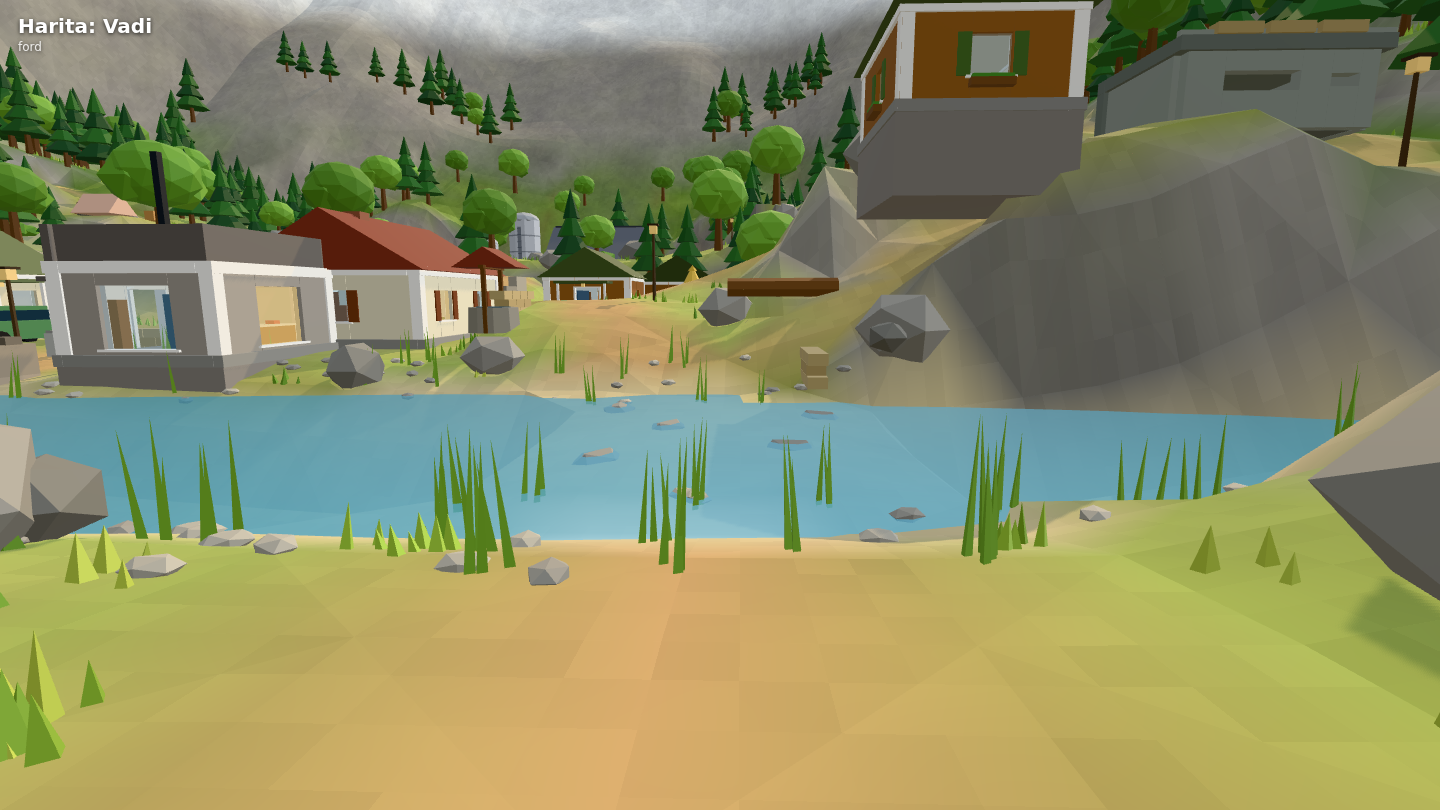
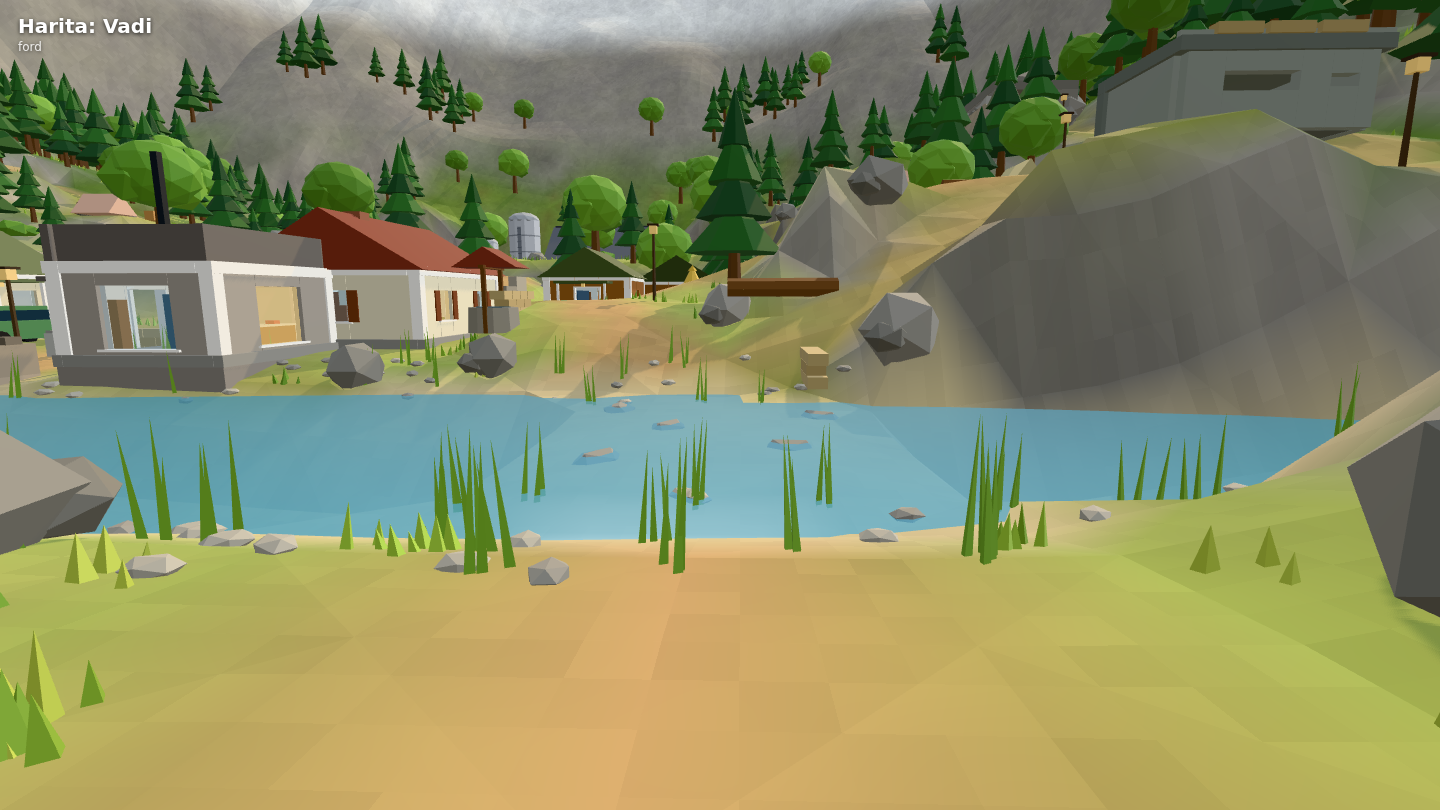
Vadi v2 entegre edildi; canlandırma mekaniği; mangal dağıtımı ayarı
Claude-Session: https://claude.ai/code/session_01A48dASB2QPbEfyfCNed2Ng

diff --git a/src/maps/vadi.js b/src/maps/vadi.js
@@ -110,23 +110,23 @@ export function buildVadi() {
     // Zirveye 4 yol girer: batı (kuzey patika), güney (rampa), doğu (nehir geçidi), kuzey (ledge). Merkez ve koridorlar açık kalır.
     S(-20, -40, 0, [11.5, 9], (g) => {
       if (g.side > 0) {
-        b.with(1.5, 0, 8.4, 0, () => V.rock(b, rng, 0, 0, 1.0)); K.crate(b, 8.6, 1.4, 1.1); K.crate(b, 8.6, 2.6, 1.0);
+        g.at(1.5, 8.4, () => V.rock(b, rng, 0, 0, 1.0)); g.at(8.6, 1.4, () => K.crate(b, 0, 0, 1.1)); g.at(8.6, 2.6, () => K.crate(b, 0, 0, 1.0));
         b.with(6, 0, -3.8, PI / 2, () => V.bunker(b, { w: 6, d: 4.4, ramp: false }));    // mazgal doğuya (vadiye) bakar, giriş batıdan
-        K.crate(b, -5.5, -3.8, 1.1); K.crate(b, -4.4, -3.6, 1.0); K.barrel(b, -6.6, -4.6, '#4d5b3a');
-        V.rock(b, rng, -9.2, 6.4, 1.3); V.rock(b, rng, 9.4, 6.6, 1.2); V.rock(b, rng, 2.5, 7.6, 1.4);
+        g.at(-5.5, -3.8, () => K.crate(b, 0, 0, 1.1)); g.at(-4.4, -3.6, () => K.crate(b, 0, 0, 1.0)); g.at(-6.6, -4.6, () => K.barrel(b, 0, 0, '#4d5b3a'));
+        g.at(-9.2, 6.4, () => V.rock(b, rng, 0, 0, 1.3)); g.at(9.4, 6.6, () => V.rock(b, rng, 0, 0, 1.2)); g.at(2.5, 7.6, () => V.rock(b, rng, 0, 0, 1.4));
         b.with(-3.2, 0, 1.2, 0, () => V.lantern(b, 3.4));
       } else {
         // Orman Kampı: çadırlar, ateş, kütük ev, bunker (ağaçlı sırt; gece ateşler yol gösterir)
         b.with(-6.2, 0, -5.8, 0, () => V.tent(b, { color: '#c7b98a' }));
         b.with(-8.6, 0, -2.2, PI / 2, () => V.tent(b, { color: '#b9b184', w: 3.0, len: 3.6 }));
         b.with(-3.4, 0, -4.6, 0, () => V.campfire(b));
-        house({ x: 7.5, z: 6.2, w: 6, d: 5, wall: '#8b5a2b', roof: '#4d5b3a', door: 'w', floors: 1 });
+        b.with(-8.8, 0, -7.4, 0, () => V.tent(b, { color: '#a7b38a', w: 3.0, len: 3.8 }));
         b.with(6, 0, -3.8, PI / 2, () => V.bunker(b, { w: 6, d: 4.4, ramp: false }));    // mazgal doğuya (vadiye) bakar, giriş batıdan
         b.with(3.8, 0, -7.4, PI / 2, () => V.logPile(b, 0, 2.6));
         b.with(-5.4, 0, 1.4, 0, () => V.fallenLog(b, 0, 0, 3.0, 1.57));
         b.with(-1.2, 0, -7.6, 0, () => V.fallenLog(b, 0, 0, 3.0, 0.2));
-        K.crate(b, -9.6, -5.6, 1.1); K.crate(b, -9.7, -6.8, 1.0);
-        V.rock(b, rng, 2.5, 7.8, 1.5); V.rock(b, rng, -9.4, 6.8, 1.3);
+        g.at(-9.6, -5.6, () => K.crate(b, 0, 0, 1.1)); g.at(-9.7, -6.8, () => K.crate(b, 0, 0, 1.0));
+        g.at(2.5, 7.8, () => V.rock(b, rng, 0, 0, 1.5)); g.at(-9.4, 6.8, () => V.rock(b, rng, 0, 0, 1.3));
         b.with(-3.0, 0, -2.2, 0, () => V.lantern(b, 3.0));
       }
     });
@@ -308,12 +308,21 @@ export function buildVadi() {
   plan((x, z, ry, pad, fn, o = {}) => {
     for (const side of o.sides || [1, -1]) {
       const wx = side * x, wz = side * z, wry = side > 0 ? ry : ry + PI;
-      const y0 = terrain.heightAt(wx, wz);
+      const y0 = terrain.heightAt(wx, wz), n0 = b.colliders.length;
       b.with(wx, y0, wz, wry, () => {
         const M = b.M;
         const gy = (lx, lz) => { const v = new THREE.Vector3(lx, 0, lz).applyMatrix4(M); return terrain.heightAt(v.x, v.z) - y0; };
-        fn({ side, gy });
+        fn({ side, gy, at: (lx, lz, f) => b.with(lx, gy(lx, lz), lz, 0, f) });     // at: nesneyi kendi zemin yüksekliğine oturt
       });
+      // zemine dayanan alçak çarpışmaları (sandık, kaya, duvar parçası) eğimde altı boş kalıyorsa yere kadar uzat:
+      // havada asılı kutu, altından geçen oyuncuyu araziye gömüp sıkıştırmasın
+      for (let i = n0; i < b.colliders.length; i++) {
+        const c = b.colliders[i];
+        if (c.tag || c.max[1] - c.min[1] >= 2.4 || c.min[1] - y0 > 0.35) continue;
+        const cx = (c.min[0] + c.max[0]) / 2, cz = (c.min[2] + c.max[2]) / 2;
+        const lo = Math.min(terrain.heightAt(cx, cz), terrain.heightAt(c.min[0], c.min[2]), terrain.heightAt(c.max[0], c.min[2]), terrain.heightAt(c.min[0], c.max[2]), terrain.heightAt(c.max[0], c.max[2]));
+        if (c.min[1] > lo + 0.12) c.min[1] = lo - 0.1;
+      }
       if (pad[0] < 3.2 && pad[1] < 3.2) reg(wx, wz);      // küçük nesneler (kaya, fener, sandık): ağaç aralığı bırak
     }
   });

diff --git a/src/maps/kitMilInterior.js b/src/maps/kitMilInterior.js
@@ -10,7 +10,7 @@ export const IC = {
 const GL = { glow: true };
 
 // Gece ışık havuzu malzemesi: siyah gövde + toplamalı karışım → gündüz görünmez, gece (emissive açılınca) parlar
-export const poolMat = (emissive = '#ffc66b', opacity = 0.5) => ({ glow: true, emissive, transparent: true, opacity, blending: 2, depthWrite: false, roughness: 1 });
+export const poolMat = (emissive = '#ffc66b', opacity = 0.5) => ({ glow: true, emissive, transparent: true, opacity, blending: 2, depthWrite: false, roughness: 1, fog: false });
 // Kademeli (merkezi parlak) ışık havuzu: 3 iç içe disk (toplamalı karışım) → alçak poligon "gradyan"
 export function poolDisc(b, x, y, z, r, color = '#ffc66b', opacity = 0.4, seg = 14) {
   for (let i = 0; i < 3; i++) b.cyl(x, y + i * 0.003, z, r * [1, 0.68, 0.38][i], r * [1, 0.68, 0.38][i], 0.01, '#000000', { seg, collide: false, o: poolMat(color, opacity * 0.5) });
@@ -186,6 +186,23 @@ export const ITEMS = {
   } },
   pillar: { w: 0.7, d: 0.7, draw(b) { b.box(0, 0, 0.35, 0.7, 3.0, 0.7, '#8d9389'); b.box(0, 0, 0.35, 0.8, 0.2, 0.8, '#6f756d', { collide: false }); } },
   bin: { w: 0.5, d: 0.5, draw(b) { b.cyl(0, 0, 0.25, 0.22, 0.2, 0.7, '#3f4a3f', { seg: 8 }); } },
+  plant: { w: 0.55, d: 0.55, draw(b) {
+    b.cyl(0, 0, 0.275, 0.2, 0.16, 0.4, '#8a5a3a', { seg: 8 });
+    b.ico(0, 0.8, 0.275, 0.4, '#4f7a3a', { scale: [1, 1.3, 1], detail: 0, collide: false });
+    b.collide(0, 0, 0.275, 0.45, 1.2, 0.45);
+  } },
+  cooler: { w: 0.45, d: 0.45, draw(b) {
+    b.box(0, 0, 0.225, 0.4, 1.0, 0.4, '#d8dde0'); b.cyl(0, 1.0, 0.225, 0.14, 0.14, 0.4, '#8fc8e8', { seg: 8, collide: false, o: { transparent: true, opacity: 0.7 } });
+    b.box(0, 0.7, 0.43, 0.1, 0.05, 0.04, '#3a6ac0', { collide: false });
+  } },
+  files: { w: 0.9, d: 0.6, draw(b) {
+    b.box(0, 0, 0.3, 0.9, 0.5, 0.6, '#9a8a64');
+    for (let i = 0; i < 3; i++) b.box(-0.3 + i * 0.3, 0.5, 0.3, 0.26, 0.28, 0.5, ['#c9c4aa', '#b8b290', '#d4cfb6'][i], { collide: false });
+    b.box(0, 0.78, 0.3, 0.8, 0.04, 0.5, '#e4e0cf', { collide: false });
+  } },
+  extinguisher: { w: 0.3, d: 0.15, draw(b) {
+    b.cyl(0, 0.9, 0.08, 0.09, 0.09, 0.5, '#c0392b', { seg: 8, collide: false }); b.box(0, 1.4, 0.08, 0.08, 0.1, 0.08, '#2a2d30', { collide: false });
+  } },
   trunk: { w: 1.1, d: 0.6, draw(b) {   // ayak sandığı
     b.box(0, 0, 0.3, 1.1, 0.42, 0.6, IC.olive); b.box(0, 0.42, 0.3, 1.14, 0.06, 0.64, IC.steel, { collide: false });
   } },
@@ -252,7 +269,7 @@ export const ROOM_KINDS = {
   ops(b, ctx, R, rng) {
     const W = R.x1 - R.x0, Dd = R.z1 - R.z0;
     wallRun(b, ctx, R, 'n', ['board', 'screens', 'board'], rng, { start: 0.3 });
-    if (W >= 5.5 && Dd >= 4.5) putAt(b, ctx, 'mapTable', (R.x0 + R.x1) / 2, (R.z0 + R.z1) / 2 - 0.5, 0, rng);
+    if (W >= 5.2 && Dd >= 4.5) putAt(b, ctx, 'mapTable', (R.x0 + R.x1) / 2, (R.z0 + R.z1) / 2 - 0.5, 0, rng);
     wallRun(b, ctx, R, 's', ['radioDesk', 'cabinet', 'radioDesk', 'cabinet'], rng, { start: 0.3 });
     wallRun(b, ctx, R, 'w', ['cabinet', 'panel'], rng, { start: 0.5 });
     wallRun(b, ctx, R, 'e', ['cabinet', 'panel', 'bin'], rng, { start: 0.5 });
@@ -360,4 +377,9 @@ export function fillRoom(b, rng, kind, R, y, keeps = []) {
   if (!fn) return;
   const ctx = { y, rects: keeps.map((k) => ({ ...k })), bounds: R };
   fn(b, ctx, R, rng);
+  // boşlukları küçük eşyalarla doldur (bitki, dosya kolisi, sebil, çöp kovası, ayak sandığı...): kapı/merdiven şeritleri korunur
+  if (kind !== 'empty' && kind !== 'hallway') {
+    const small = ['plant', 'files', 'bin', 'cooler', 'trunk', 'files', 'plant', 'extinguisher', 'bin'];
+    for (const side of ['n', 'e', 's', 'w']) wallRun(b, ctx, R, side, small, rng, { start: 0.15, gap: 0.3, cycle: true });
+  }
 }

diff --git a/src/game/game.js b/src/game/game.js
@@ -269,6 +269,43 @@ export class Game {
     }
   }
 
+  // ───── canlandırma (ilk yardım çantasıyla yakındaki dost cesedi) ─────
+  canRevive(v, medic) {
+    return !v.alive && v.revivable && v.deadT < 14 && v.team === medic.team && !this.ended
+      && Math.hypot(v.pos.x - medic.pos.x, v.pos.z - medic.pos.z) < 3.4;
+  }
+  findRevivable(medic) {
+    let best = null, bd = 2.8;
+    for (const v of this.soldiers) {
+      if (v.alive || !v.revivable || v.deadT >= 14 || v.team !== medic.team) continue;
+      const d = Math.hypot(v.pos.x - medic.pos.x, v.pos.z - medic.pos.z);
+      if (d < bd && Math.abs(v.pos.y - medic.pos.y) < 2.2) { bd = d; best = v; }
+    }
+    return best;
+  }
+  nearestCorpse(medic, range) {
+    let best = null, bd = range;
+    for (const v of this.soldiers) {
+      if (v.alive || !v.revivable || v.deadT >= 9 || v.team !== medic.team) continue;
+      const d = Math.hypot(v.pos.x - medic.pos.x, v.pos.z - medic.pos.z);
+      if (d < bd) { bd = d; best = v; }
+    }
+    return best;
+  }
+  revive(v, medic) {
+    const at = { x: v.pos.x, z: v.pos.z, ry: v.yaw };
+    v.spawn(at, 2.5);
+    this.world.settle(v);
+    v.hp = v.maxHp * 0.55;
+    v.revivable = false;
+    this.tickets[v.team] += 1;
+    if (v.brain) v.brain.reset();
+    medic.score += 80;
+    if (v.isPlayer) { this.pendingClass = null; this.hud.onPlayerSpawn?.(); this.hud.toast(`${medic.name} seni canlandırdı`, '#9be07f'); }
+    if (medic.isPlayer) { this.hud.popup('+80 CANLANDIRMA'); this.hud.toast(`${v.name} canlandırıldı`, '#9be07f'); }
+    this.effects.spark?.(v.pos.clone().setY(v.pos.y + 1), 6, new THREE.Vector3(0, 1, 0));
+  }
+
   // ───── mangal görev dağıtımı: her mangal bir hedefe; takım dengesi + tehdit/ihtiyaç ─────
   squadGoal(s) { return this.squadGoals[s.team][s.squad] || null; }
 
@@ -289,7 +326,7 @@ export class Game {
         let best = null, bs = -1;
         for (const o of objs) {
           const d = Math.hypot(o.x - home.x, o.z - home.z);
-          const sc = need(o) / (1 + load.get(o.id) * 0.9) / (1 + d / 120) + Math.random() * 0.25;
+          const sc = need(o) / (1 + load.get(o.id) * 1.7) / (1 + d / 260) + Math.random() * 0.2;
           if (sc > bs) { bs = sc; best = o; }
         }
         this.squadGoals[team][sq] = best;

diff --git a/src/game/soldier.js b/src/game/soldier.js
@@ -308,7 +308,16 @@ export class Soldier {
   }
 
   _medkit(it, st) {
-    if (it.mag <= 0 || this.hp >= this.maxHp) return false;
+    if (it.mag <= 0) return false;
+    // yakında canlandırılabilir bir dost cesedi varsa: canlandırma (3 sn)
+    const body = this.game.findRevivable(this);
+    if (body) {
+      this.useT = 2.8; this.useItem = null; this.reviveTarget = body; this.cd = 3.0;
+      this.game.sfx.reload(this.pos);
+      this.game.emit('reload', this);
+      return true;
+    }
+    if (this.hp >= this.maxHp) return false;
     this.useT = st.useTime; this.useItem = it; this.cd = st.useTime + 0.2;
     this.game.sfx.reload(this.pos);
     this.game.emit('reload', this);
@@ -393,6 +402,7 @@ export class Soldier {
     this.deadT = 0; this.deadDir = Math.random() > 0.5 ? 1 : -1;
     this.ads = false; this.reloadT = 0; this.useT = 0; this.swing = null; this.autoSwitchT = 0;
     this.vel.set(0, 0, 0);
+    this.revivable = !/RPG|Bomba|Claymore|M79|üssü/i.test(weaponName || '');
     if (killer && killer !== this) { killer.kills++; killer.score += headshot ? 150 : 100; }
     this.game.onKill(killer, this, weaponName, headshot);
   }
@@ -441,7 +451,11 @@ export class Soldier {
       this.useT -= dt;
       if (this.useT <= 0) {
         const it = this.useItem;
-        if (it && it.mag > 0) { it.mag--; this.heal(WSTATS.medkit.heal); if (it.mag <= 0 && this.cur === 2) this.switchTo(0); }
+        if (this.reviveTarget) {
+          const bt = this.reviveTarget; this.reviveTarget = null;
+          const mk = this.items[2];
+          if (this.game.canRevive(bt, this)) { if (mk && mk.id === 'medkit' && mk.mag > 0) mk.mag--; this.game.revive(bt, this); }
+        } else if (it && it.mag > 0) { it.mag--; this.heal(WSTATS.medkit.heal); if (it.mag <= 0 && this.cur === 2) this.switchTo(0); }
       }
     }
     // hedef nişan geçişi

diff --git a/src/game/bot.js b/src/game/bot.js
@@ -80,6 +80,10 @@ export class BotBrain {
       if (pp) { this.setGoal(pp.x, pp.z, rand(25, 45)); this.perching = true; return; }
     }
     this.perching = false;
+    if (s.cls === 'medic') {
+      const c = g.nearestCorpse(s, 45);
+      if (c) { this.setGoal(c.pos.x, c.pos.z, 7); return; }
+    }
     if (s.cls === 'medic' && Math.random() < 0.5) {
       let mate = null, md = 1e9;
       for (const a of g.soldiers) {
@@ -174,6 +178,10 @@ export class BotBrain {
     }
     if (!this.target && (st.kind === 'gun') && it.mag < st.mag * 0.4 && it.reserve > 0 && s.reloadT <= 0) s.startReload();
     if (!this.target && s.cur !== 0 && s.items[0].mag + s.items[0].reserve > 0) s.switchTo(0);
+    if (!this.target && s.items[2].id === 'medkit' && s.items[2].mag > 0 && s.useT <= 0 && s.cd <= 0) {
+      const body = g.findRevivable(s);
+      if (body) { s.useGadget('medkit'); }
+    }
     if (!this.target && s.hp < 45 && s.items[2].id === 'medkit' && s.items[2].mag > 0) s.useGadget('medkit');
 
     if (this.target) {
@@ -316,6 +324,7 @@ export class BotBrain {
 
     const ml = Math.hypot(moveX, moveZ);
     const k = ml > 1 ? 1 / ml : 1;
+    if (s.useT > 0) speed = 0;
     const wx = moveX * k * speed, wz = moveZ * k * speed;
     const a = Math.min(1, dt * 10);
     s.vel.x = lerp(s.vel.x, wx, a);

diff --git a/src/game/collision.js b/src/game/collision.js
@@ -112,6 +112,9 @@ export class World {
   settle(s) {
     const p = s.pos;
     if (this.terrain) p.y = this.terrain.heightAt(p.x, p.z);
+    // köprü tabliyesi ('deck') üstüne doğan: arazi yerine tabliyeye çık (yoksa köprünün altındaki nehir yatağında kalır)
+    const dk = this.query(p.x - 0.5, p.z - 0.5, p.x + 0.5, p.z + 0.5, (this._tmp5 ||= []));
+    for (const c of dk) if (c.tag === 'deck' && p.x > c.min[0] && p.x < c.max[0] && p.z > c.min[2] && p.z < c.max[2] && c.max[1] > p.y) p.y = c.max[1];
     for (let i = 0; i < 4; i++) {
       const list = this.query(p.x - 1, p.z - 1, p.x + 1, p.z + 1, (this._tmp4 ||= []));
       const c = this._hits(list, p.x, p.y, p.z, 0.3);

diff --git a/src/viewer/mapViewer.js b/src/viewer/mapViewer.js
@@ -107,7 +107,7 @@ const PRESETS = {
     ridge: { pos: [-40, 16.6, -52], target: [-8, 4, -22], fov: 56 },
     sniper: { pos: [-30, 14.4, -52], target: [30, 2, 20], fov: 34 },
     tepe: { pos: [-10, 14.5, -26], target: [-20, 8.5, -41], fov: 52 },
-    camp: { pos: [22, 13.2, 52], target: [24, 8.2, 44], fov: 58 },
+    camp: { pos: [34, 10.6, 33], target: [23, 8.8, 44.5], fov: 55 },
     mill: { pos: [44, 8.8, -13], target: [24, 3.2, -25], fov: 50 },
     ambar: { pos: [-24.5, 3.6, 12], target: [-24, 3.0, 26], fov: 62 },
     village: { pos: [-27, 3.1, -4], target: [-9, 2.2, 3], fov: 62 },

diff --git a/src/game/hud.js b/src/game/hud.js
@@ -447,6 +447,7 @@ export class Hud {
       for (const o of g.mode.objectives) {
         if (Math.hypot(o.x - p.pos.x, o.z - p.pos.z) < o.r) { msg = o.owner === p.team && Math.abs(o.p) >= 1 ? `${o.name} · senin` : `${o.name} · ele geçiriliyor`; break; }
       }
+      if (!msg && p.stat.kind === 'medkit' && p.item.mag > 0 && g.findRevivable(p)) msg = 'Canlandır · sol tık';
       if (!msg && p.item.mag <= 0 && p.stat.kind === 'gun') msg = p.item.reserve > 0 ? 'ŞARJÖR BOŞ · R ile doldur' : 'ŞARJÖR BOŞ · mermi kalmadı!';
     }
     $('msg').textContent = msg;
